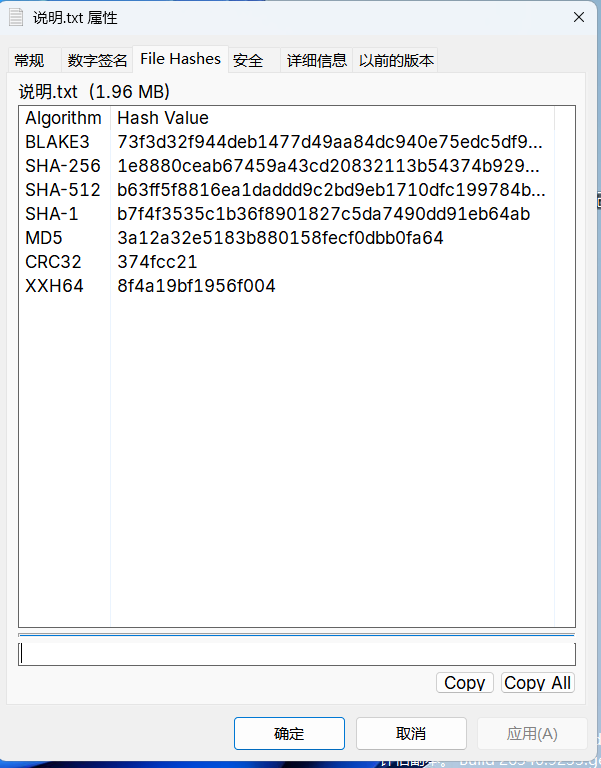
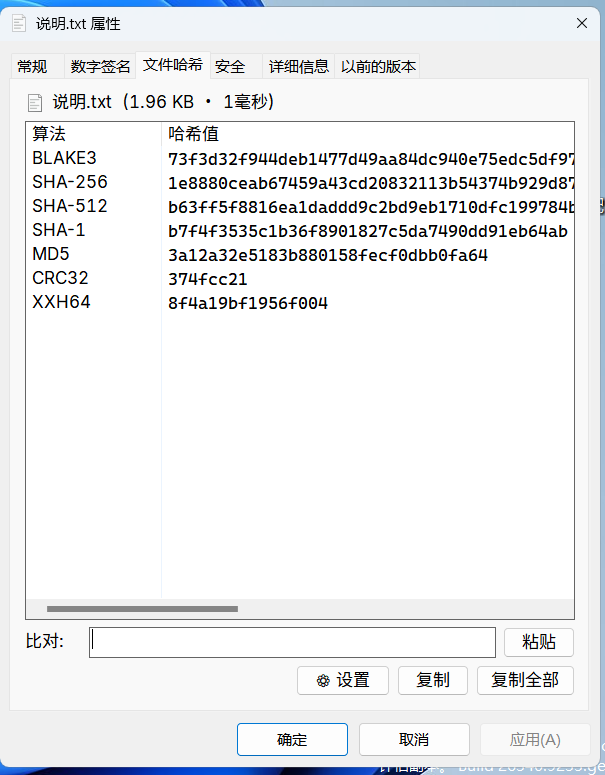
docs: 更新 README 演示截图与算法特性说明

Changed region(s): [[0.0, 0.0, 1.0, 1.0], [0.0, 0.9688, 0.0899, 1.0]]

diff --git a/README.md b/README.md
@@ -2,7 +2,7 @@
 
 A lightweight, high-performance, modern Windows Explorer Property Sheet Shell Extension built in **C# (.NET NativeAOT)**, inspired by [OpenHashTab](https://github.com/namazso/OpenHashTab).
 
-It embeds a **"File Hashes"** tab directly into Windows Explorer's file Properties dialog, offering rapid multi-algorithm hash calculation (including **BLAKE3**), instant hash comparison, clipboard copying, and dark mode support with an ultra-low memory and disk footprint (~1.8 MB standalone unmanaged DLL).
+It embeds a **"文件哈希"** tab directly into Windows Explorer's file Properties dialog, offering rapid multi-algorithm hash calculation (including **BLAKE3**), instant hash comparison, clipboard copying, and dark mode support with an ultra-low memory and disk footprint (~2.0 MB standalone unmanaged DLL).
 
 ![LightHashTab Screenshot](assets/screenshot.png)
 
@@ -13,12 +13,12 @@ It embeds a **"File Hashes"** tab directly into Windows Explorer's file Properti
 - **🚀 NativeAOT Unmanaged Shell Extension**: Compiles directly to a standalone native dynamic link library (`LightHashTab.dll`) with zero CoreCLR host overhead and fast startup (<10ms).
 - **⚡ High-Performance Multi-Hashing**:
   - **BLAKE3** (Managed SIMD hardware-accelerated with AVX2/SSE)
-  - **SHA-256**, **SHA-512**, **SHA-1**, **MD5** (.NET hardware-accelerated cryptography)
-  - **CRC32**, **XXH64** (`System.IO.Hashing`)
+  - **SHA-256**, **SHA-512**, **SHA-384**, **SHA-1**, **MD5** (.NET hardware-accelerated cryptography)
+  - **CRC32**, **XXH64**, **XXH128** (`System.IO.Hashing`)
   - Single-pass chunked streaming I/O — file is read only once.
 - **🔍 Live Hash Matching**: Paste any checksum into the comparison box to instantly highlight the matching algorithm (✔ Match / ✖ No match).
 - **📋 One-Click Copying**: Copy single hash values or export formatted summaries to clipboard.
-- **🎨 Native Explorer UI & Dark Mode**: Lightweight Win32 controls (`SysListView32`, `msctls_progress32`) styled with Windows Explorer themes (`uxtheme`).
+- **🎨 Native Explorer UI & Dark Mode**: Lightweight Win32 controls (`SysListView32`, `msctls_progress32`) styled with Windows Explorer themes (`uxtheme`), with DPI scaling support.
 
 ---
 
@@ -41,12 +41,12 @@ The compiled standalone DLL will be located at:
 
 LightHashTab is a fully standalone native DLL. It requires **no administrator privileges** and **no .NET runtime**.
 
-1. Download the latest `LightHashTab-x.x.x-win-x64.zip` from the [Releases](https://github.com/silentmoooon/lightHashTab/releases) page.
+1. Download the latest `LightHashTab-x.x.x-win-x64.zip` from the [Releases](https://github.com/silentmoooon/LightHashTab/releases) page.
 2. Extract the archive to any temporary folder.
 3. Double-click **`install.cmd`** to register the extension.
    - *The script will automatically copy the DLL to your user directory (`%LOCALAPPDATA%\Programs\LightHashTab`) and register the COM object for the current user.*
 
-You can now right-click any file in Windows Explorer, select **Properties**, and find the **File Hashes** tab!
+You can now right-click any file in Windows Explorer, select **Properties**, and find the **文件哈希** tab!
 
 ### Uninstallation
 
